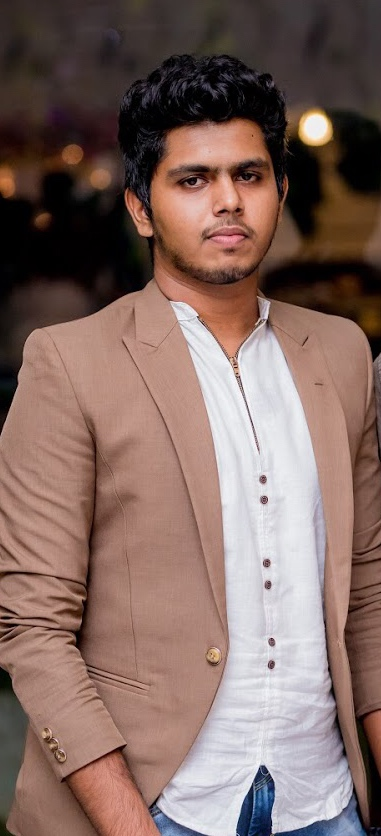
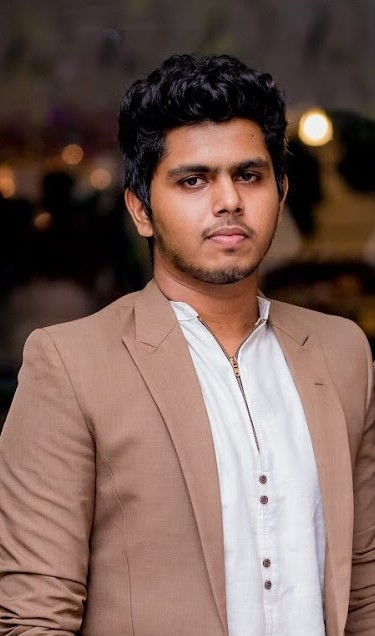
added profile images

diff --git a/frontend/src/app/shared/components/show-dataset/show-dataset.component.html b/frontend/src/app/shared/components/show-dataset/show-dataset.component.html
@@ -32,7 +32,7 @@
     <ul>
       <li class="sidenav-button"><button mat-stroked-button >Download</button></li>
       <li class="sidenav-button"><button mat-stroked-button >View Graph</button></li>
-      <li class="sidenav-button"><button mat-stroked-button >View Dataset</button></li>
+      <li class="sidenav-button"><button mat-stroked-button routerLink="/data-set" >View Dataset</button></li>
       <li class="sidenav-button"><button mat-stroked-button routerLink="/feature-prediction">Feature Prediction</button></li>
     </ul>
   </div>

diff --git a/frontend/src/app/modules/home/pages/about-us/about-us.component.html b/frontend/src/app/modules/home/pages/about-us/about-us.component.html
@@ -59,7 +59,7 @@
       </mat-card>
       <mat-card class="mat-card">
       <mat-card-title>Shehan De Silva</mat-card-title>
-      <img mat-card-image src="https://mdbootstrap.com/img/Photos/Horizontal/Nature/12-col/img%20(30).jpg" >
+      <img mat-card-image src="../../../../../assets/images/profile-pictures/Damith.jpeg" >
         <mat-card-subtitle>Collaborator</mat-card-subtitle>
       <mat-card-content>
         <p></p>

diff --git a/frontend/src/app/app.component.css b/frontend/src/app/app.component.css
@@ -68,7 +68,6 @@ mat-toolbar {
   margin-left: 5px;
   background-color: #131A1E;
   color: white;
-;
 }
 
 .logo {
